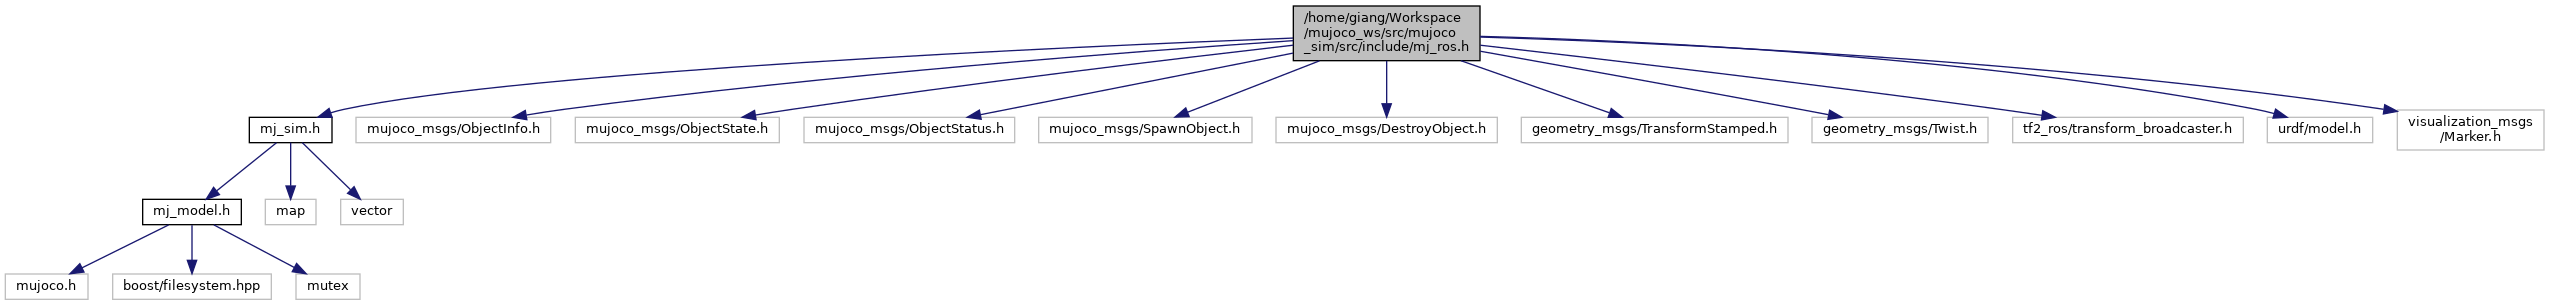
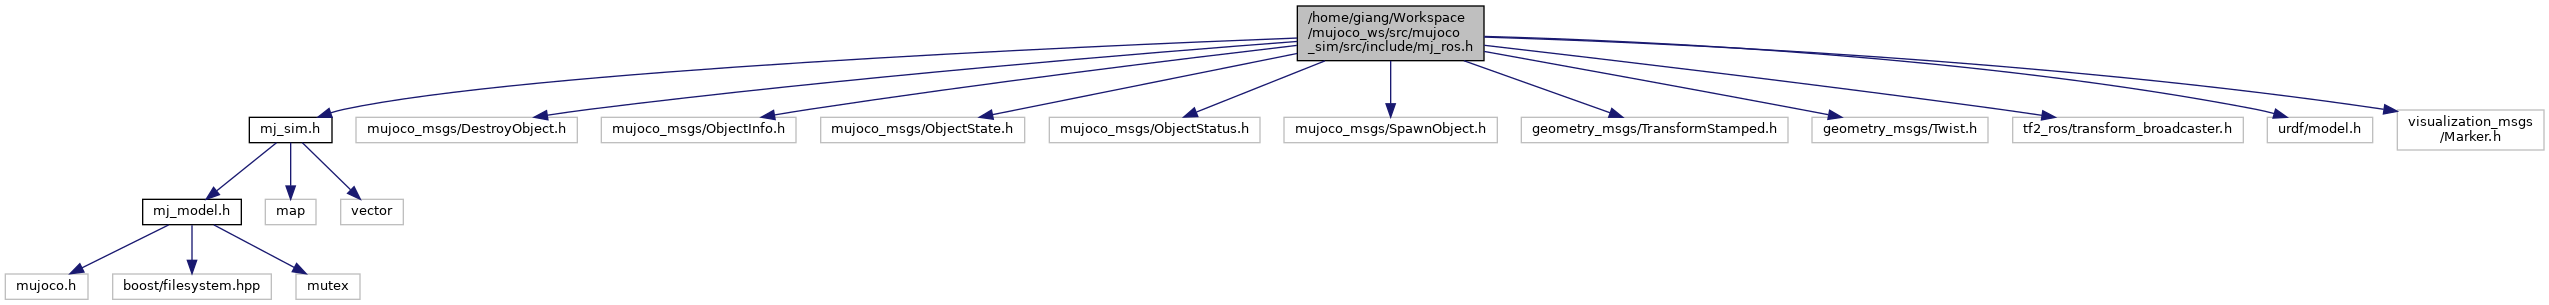
Add publish base transform

diff --git a/docs/html/mj__ros_8h_source.html b/docs/html/mj__ros_8h_source.html
@@ -93,11 +93,11 @@ $(function() {
 <div class="line"><a name="l00021"></a><span class="lineno">   21</span>&#160;<span class="preprocessor">#pragma once</span></div>
 <div class="line"><a name="l00022"></a><span class="lineno">   22</span>&#160; </div>
 <div class="line"><a name="l00023"></a><span class="lineno">   23</span>&#160;<span class="preprocessor">#include &quot;<a class="code" href="mj__sim_8h.html">mj_sim.h</a>&quot;</span></div>
-<div class="line"><a name="l00024"></a><span class="lineno">   24</span>&#160;<span class="preprocessor">#include &quot;mujoco_msgs/ObjectInfo.h&quot;</span></div>
-<div class="line"><a name="l00025"></a><span class="lineno">   25</span>&#160;<span class="preprocessor">#include &quot;mujoco_msgs/ObjectState.h&quot;</span></div>
-<div class="line"><a name="l00026"></a><span class="lineno">   26</span>&#160;<span class="preprocessor">#include &quot;mujoco_msgs/ObjectStatus.h&quot;</span></div>
-<div class="line"><a name="l00027"></a><span class="lineno">   27</span>&#160;<span class="preprocessor">#include &quot;mujoco_msgs/SpawnObject.h&quot;</span></div>
-<div class="line"><a name="l00028"></a><span class="lineno">   28</span>&#160;<span class="preprocessor">#include &quot;mujoco_msgs/DestroyObject.h&quot;</span></div>
+<div class="line"><a name="l00024"></a><span class="lineno">   24</span>&#160;<span class="preprocessor">#include &quot;mujoco_msgs/DestroyObject.h&quot;</span></div>
+<div class="line"><a name="l00025"></a><span class="lineno">   25</span>&#160;<span class="preprocessor">#include &quot;mujoco_msgs/ObjectInfo.h&quot;</span></div>
+<div class="line"><a name="l00026"></a><span class="lineno">   26</span>&#160;<span class="preprocessor">#include &quot;mujoco_msgs/ObjectState.h&quot;</span></div>
+<div class="line"><a name="l00027"></a><span class="lineno">   27</span>&#160;<span class="preprocessor">#include &quot;mujoco_msgs/ObjectStatus.h&quot;</span></div>
+<div class="line"><a name="l00028"></a><span class="lineno">   28</span>&#160;<span class="preprocessor">#include &quot;mujoco_msgs/SpawnObject.h&quot;</span></div>
 <div class="line"><a name="l00029"></a><span class="lineno">   29</span>&#160; </div>
 <div class="line"><a name="l00030"></a><span class="lineno">   30</span>&#160;<span class="preprocessor">#include &lt;geometry_msgs/TransformStamped.h&gt;</span></div>
 <div class="line"><a name="l00031"></a><span class="lineno">   31</span>&#160;<span class="preprocessor">#include &lt;geometry_msgs/Twist.h&gt;</span></div>
@@ -126,7 +126,7 @@ $(function() {
 <div class="line"><a name="l00083"></a><span class="lineno">   83</span>&#160; </div>
 <div class="line"><a name="l00090"></a><span class="lineno">   90</span>&#160;    <span class="keywordtype">void</span> publish_markers(<span class="keywordtype">int</span> body_idx, std::string object_name);</div>
 <div class="line"><a name="l00091"></a><span class="lineno">   91</span>&#160; </div>
-<div class="line"><a name="l00098"></a><span class="lineno">   98</span>&#160;    <span class="keywordtype">void</span> publish_tf(<span class="keywordtype">int</span> body_idx, std::string object_name);</div>
+<div class="line"><a name="l00098"></a><span class="lineno">   98</span>&#160;    <span class="keywordtype">void</span> set_transform(<span class="keywordtype">int</span> body_idx, std::string object_name);</div>
 <div class="line"><a name="l00099"></a><span class="lineno">   99</span>&#160; </div>
 <div class="line"><a name="l00100"></a><span class="lineno">  100</span>&#160;<span class="keyword">public</span>:</div>
 <div class="line"><a name="l00105"></a><span class="lineno"><a class="line" href="classMjRos.html#ac4fdfcf53d7e46c55046a43ba554e31b">  105</a></span>&#160;    <span class="keyword">static</span> ros::Time <a class="code" href="classMjRos.html#ac4fdfcf53d7e46c55046a43ba554e31b">ros_start</a>;</div>
@@ -140,29 +140,31 @@ $(function() {
 <div class="line"><a name="l00113"></a><span class="lineno">  113</span>&#160; </div>
 <div class="line"><a name="l00114"></a><span class="lineno">  114</span>&#160;    ros::ServiceServer destroy_objects_server;</div>
 <div class="line"><a name="l00115"></a><span class="lineno">  115</span>&#160; </div>
-<div class="line"><a name="l00116"></a><span class="lineno">  116</span>&#160;    visualization_msgs::Marker marker;</div>
+<div class="line"><a name="l00116"></a><span class="lineno">  116</span>&#160;    ros::Publisher vis_pub;</div>
 <div class="line"><a name="l00117"></a><span class="lineno">  117</span>&#160; </div>
-<div class="line"><a name="l00118"></a><span class="lineno">  118</span>&#160;    ros::Publisher vis_pub;</div>
+<div class="line"><a name="l00118"></a><span class="lineno">  118</span>&#160;    ros::Publisher base_pub;</div>
 <div class="line"><a name="l00119"></a><span class="lineno">  119</span>&#160; </div>
-<div class="line"><a name="l00120"></a><span class="lineno">  120</span>&#160;    geometry_msgs::TransformStamped transform;</div>
+<div class="line"><a name="l00120"></a><span class="lineno">  120</span>&#160;    tf2_ros::TransformBroadcaster br;</div>
 <div class="line"><a name="l00121"></a><span class="lineno">  121</span>&#160; </div>
-<div class="line"><a name="l00122"></a><span class="lineno">  122</span>&#160;    tf2_ros::TransformBroadcaster br;</div>
-<div class="line"><a name="l00123"></a><span class="lineno">  123</span>&#160;};</div>
-<div class="line"><a name="l00124"></a><span class="lineno">  124</span>&#160; </div>
-<div class="line"><a name="l00135"></a><span class="lineno"><a class="line" href="mj__ros_8h.html#a0c87fc0c5caf99e8363d04b3dc1265dc">  135</a></span>&#160;<span class="keywordtype">bool</span> <a class="code" href="mj__ros_8h.html#a0c87fc0c5caf99e8363d04b3dc1265dc">init_urdf</a>(urdf::Model &amp;urdf_model, <span class="keyword">const</span> ros::NodeHandle &amp;n)</div>
-<div class="line"><a name="l00136"></a><span class="lineno">  136</span>&#160;{</div>
-<div class="line"><a name="l00137"></a><span class="lineno">  137</span>&#160;    <span class="keywordflow">if</span> (n.hasParam(<span class="stringliteral">&quot;robot_description&quot;</span>))</div>
-<div class="line"><a name="l00138"></a><span class="lineno">  138</span>&#160;    {</div>
-<div class="line"><a name="l00139"></a><span class="lineno">  139</span>&#160;        <span class="keywordflow">return</span> urdf_model.initParamWithNodeHandle(<span class="stringliteral">&quot;robot_description&quot;</span>, n);</div>
-<div class="line"><a name="l00140"></a><span class="lineno">  140</span>&#160;    }</div>
-<div class="line"><a name="l00141"></a><span class="lineno">  141</span>&#160;    <span class="keywordflow">else</span></div>
-<div class="line"><a name="l00142"></a><span class="lineno">  142</span>&#160;    {</div>
-<div class="line"><a name="l00143"></a><span class="lineno">  143</span>&#160;        ROS_WARN(<span class="stringliteral">&quot;robot_description not found&quot;</span>);</div>
-<div class="line"><a name="l00144"></a><span class="lineno">  144</span>&#160;        <span class="keywordflow">return</span> <span class="keyword">false</span>;</div>
-<div class="line"><a name="l00145"></a><span class="lineno">  145</span>&#160;    }</div>
-<div class="line"><a name="l00146"></a><span class="lineno">  146</span>&#160;}</div>
+<div class="line"><a name="l00122"></a><span class="lineno">  122</span>&#160;    visualization_msgs::Marker marker;</div>
+<div class="line"><a name="l00123"></a><span class="lineno">  123</span>&#160; </div>
+<div class="line"><a name="l00124"></a><span class="lineno">  124</span>&#160;    geometry_msgs::TransformStamped transform;</div>
+<div class="line"><a name="l00125"></a><span class="lineno">  125</span>&#160;};</div>
+<div class="line"><a name="l00126"></a><span class="lineno">  126</span>&#160; </div>
+<div class="line"><a name="l00137"></a><span class="lineno"><a class="line" href="mj__ros_8h.html#a0c87fc0c5caf99e8363d04b3dc1265dc">  137</a></span>&#160;<span class="keywordtype">bool</span> <a class="code" href="mj__ros_8h.html#a0c87fc0c5caf99e8363d04b3dc1265dc">init_urdf</a>(urdf::Model &amp;urdf_model, <span class="keyword">const</span> ros::NodeHandle &amp;n)</div>
+<div class="line"><a name="l00138"></a><span class="lineno">  138</span>&#160;{</div>
+<div class="line"><a name="l00139"></a><span class="lineno">  139</span>&#160;    <span class="keywordflow">if</span> (n.hasParam(<span class="stringliteral">&quot;robot_description&quot;</span>))</div>
+<div class="line"><a name="l00140"></a><span class="lineno">  140</span>&#160;    {</div>
+<div class="line"><a name="l00141"></a><span class="lineno">  141</span>&#160;        <span class="keywordflow">return</span> urdf_model.initParamWithNodeHandle(<span class="stringliteral">&quot;robot_description&quot;</span>, n);</div>
+<div class="line"><a name="l00142"></a><span class="lineno">  142</span>&#160;    }</div>
+<div class="line"><a name="l00143"></a><span class="lineno">  143</span>&#160;    <span class="keywordflow">else</span></div>
+<div class="line"><a name="l00144"></a><span class="lineno">  144</span>&#160;    {</div>
+<div class="line"><a name="l00145"></a><span class="lineno">  145</span>&#160;        ROS_WARN(<span class="stringliteral">&quot;robot_description not found&quot;</span>);</div>
+<div class="line"><a name="l00146"></a><span class="lineno">  146</span>&#160;        <span class="keywordflow">return</span> <span class="keyword">false</span>;</div>
+<div class="line"><a name="l00147"></a><span class="lineno">  147</span>&#160;    }</div>
+<div class="line"><a name="l00148"></a><span class="lineno">  148</span>&#160;}</div>
 </div><!-- fragment --></div><!-- contents -->
-<div class="ttc" id="amj__ros_8h_html_a0c87fc0c5caf99e8363d04b3dc1265dc"><div class="ttname"><a href="mj__ros_8h.html#a0c87fc0c5caf99e8363d04b3dc1265dc">init_urdf</a></div><div class="ttdeci">bool init_urdf(urdf::Model &amp;urdf_model, const ros::NodeHandle &amp;n)</div><div class="ttdoc">This function urdf::Model::initParamWithNodeHandle should be inside the implementation file,...</div><div class="ttdef"><b>Definition:</b> mj_ros.h:135</div></div>
+<div class="ttc" id="amj__ros_8h_html_a0c87fc0c5caf99e8363d04b3dc1265dc"><div class="ttname"><a href="mj__ros_8h.html#a0c87fc0c5caf99e8363d04b3dc1265dc">init_urdf</a></div><div class="ttdeci">bool init_urdf(urdf::Model &amp;urdf_model, const ros::NodeHandle &amp;n)</div><div class="ttdoc">This function urdf::Model::initParamWithNodeHandle should be inside the implementation file,...</div><div class="ttdef"><b>Definition:</b> mj_ros.h:137</div></div>
 <div class="ttc" id="amj__sim_8h_html"><div class="ttname"><a href="mj__sim_8h.html">mj_sim.h</a></div></div>
 <div class="ttc" id="aclassMjRos_html_acd3054fd4ee8a09961d76cf26e297f6c"><div class="ttname"><a href="classMjRos.html#acd3054fd4ee8a09961d76cf26e297f6c">MjRos::update</a></div><div class="ttdeci">void update(double frequency)</div><div class="ttdoc">Update publishers.</div><div class="ttdef"><b>Definition:</b> mj_ros.cpp:328</div></div>
 <div class="ttc" id="aclassMjRos_html_a6ac18666bf03ec3810874f87a5533091"><div class="ttname"><a href="classMjRos.html#a6ac18666bf03ec3810874f87a5533091">MjRos::~MjRos</a></div><div class="ttdeci">~MjRos()</div><div class="ttdef"><b>Definition:</b> mj_ros.cpp:31</div></div>

diff --git a/docs/html/mj__ros_8h.html b/docs/html/mj__ros_8h.html
@@ -74,11 +74,11 @@ $(function() {
 </div><!--header-->
 <div class="contents">
 <div class="textblock"><code>#include &quot;<a class="el" href="mj__sim_8h_source.html">mj_sim.h</a>&quot;</code><br />
+<code>#include &quot;mujoco_msgs/DestroyObject.h&quot;</code><br />
 <code>#include &quot;mujoco_msgs/ObjectInfo.h&quot;</code><br />
 <code>#include &quot;mujoco_msgs/ObjectState.h&quot;</code><br />
 <code>#include &quot;mujoco_msgs/ObjectStatus.h&quot;</code><br />
 <code>#include &quot;mujoco_msgs/SpawnObject.h&quot;</code><br />
-<code>#include &quot;mujoco_msgs/DestroyObject.h&quot;</code><br />
 <code>#include &lt;geometry_msgs/TransformStamped.h&gt;</code><br />
 <code>#include &lt;geometry_msgs/Twist.h&gt;</code><br />
 <code>#include &lt;tf2_ros/transform_broadcaster.h&gt;</code><br />
@@ -89,13 +89,13 @@ Include dependency graph for mj_ros.h:</div>
 <div class="dyncontent">
 <div class="center"><img src="mj__ros_8h__incl.png" border="0" usemap="#_2home_2giang_2Workspace_2mujoco__ws_2src_2mujoco__sim_2src_2include_2mj__ros_8h" alt=""/></div>
 <map name="_2home_2giang_2Workspace_2mujoco__ws_2src_2mujoco__sim_2src_2include_2mj__ros_8h" id="_2home_2giang_2Workspace_2mujoco__ws_2src_2mujoco__sim_2src_2include_2mj__ros_8h">
-<area shape="rect" title=" " alt="" coords="1293,5,1480,61"/>
+<area shape="rect" title=" " alt="" coords="1297,5,1484,61"/>
 <area shape="rect" href="mj__sim_8h.html" title=" " alt="" coords="249,117,332,143"/>
-<area shape="rect" title=" " alt="" coords="356,117,551,143"/>
-<area shape="rect" title=" " alt="" coords="575,117,779,143"/>
-<area shape="rect" title=" " alt="" coords="804,117,1015,143"/>
-<area shape="rect" title=" " alt="" coords="1039,117,1252,143"/>
-<area shape="rect" title=" " alt="" coords="1276,117,1497,143"/>
+<area shape="rect" title=" " alt="" coords="356,117,577,143"/>
+<area shape="rect" title=" " alt="" coords="601,117,796,143"/>
+<area shape="rect" title=" " alt="" coords="821,117,1025,143"/>
+<area shape="rect" title=" " alt="" coords="1049,117,1260,143"/>
+<area shape="rect" title=" " alt="" coords="1284,117,1497,143"/>
 <area shape="rect" title=" " alt="" coords="1521,117,1788,143"/>
 <area shape="rect" title=" " alt="" coords="1812,117,1988,143"/>
 <area shape="rect" title=" " alt="" coords="2013,117,2243,143"/>

diff --git a/docs/html/mj__ros_8cpp.html b/docs/html/mj__ros_8cpp.html
@@ -81,17 +81,17 @@ Include dependency graph for mj_ros.cpp:</div>
 <div class="dyncontent">
 <div class="center"><img src="mj__ros_8cpp__incl.png" border="0" usemap="#_2home_2giang_2Workspace_2mujoco__ws_2src_2mujoco__sim_2src_2src_2mj__ros_8cpp" alt=""/></div>
 <map name="_2home_2giang_2Workspace_2mujoco__ws_2src_2mujoco__sim_2src_2src_2mj__ros_8cpp" id="_2home_2giang_2Workspace_2mujoco__ws_2src_2mujoco__sim_2src_2src_2mj__ros_8cpp">
-<area shape="rect" title=" " alt="" coords="1465,5,1644,61"/>
-<area shape="rect" href="mj__ros_8h.html" title=" " alt="" coords="1347,109,1426,136"/>
-<area shape="rect" title=" " alt="" coords="1451,109,1536,136"/>
-<area shape="rect" title=" " alt="" coords="1561,109,1674,136"/>
-<area shape="rect" title=" " alt="" coords="1698,109,1790,136"/>
+<area shape="rect" title=" " alt="" coords="1469,5,1648,61"/>
+<area shape="rect" href="mj__ros_8h.html" title=" " alt="" coords="1351,109,1430,136"/>
+<area shape="rect" title=" " alt="" coords="1455,109,1540,136"/>
+<area shape="rect" title=" " alt="" coords="1565,109,1678,136"/>
+<area shape="rect" title=" " alt="" coords="1702,109,1794,136"/>
 <area shape="rect" href="mj__sim_8h.html" title=" " alt="" coords="249,191,332,218"/>
-<area shape="rect" title=" " alt="" coords="356,191,551,218"/>
-<area shape="rect" title=" " alt="" coords="575,191,779,218"/>
-<area shape="rect" title=" " alt="" coords="804,191,1015,218"/>
-<area shape="rect" title=" " alt="" coords="1039,191,1252,218"/>
-<area shape="rect" title=" " alt="" coords="1276,191,1497,218"/>
+<area shape="rect" title=" " alt="" coords="356,191,577,218"/>
+<area shape="rect" title=" " alt="" coords="601,191,796,218"/>
+<area shape="rect" title=" " alt="" coords="821,191,1025,218"/>
+<area shape="rect" title=" " alt="" coords="1049,191,1260,218"/>
+<area shape="rect" title=" " alt="" coords="1284,191,1497,218"/>
 <area shape="rect" title=" " alt="" coords="1521,191,1788,218"/>
 <area shape="rect" title=" " alt="" coords="1812,191,1988,218"/>
 <area shape="rect" title=" " alt="" coords="2013,191,2243,218"/>

diff --git a/docs/html/mujoco__sim__headless_8cpp.html b/docs/html/mujoco__sim__headless_8cpp.html
@@ -93,11 +93,11 @@ Include dependency graph for mujoco_sim_headless.cpp:</div>
 <area shape="rect" title=" " alt="" coords="5,273,209,315"/>
 <area shape="rect" title=" " alt="" coords="233,273,405,315"/>
 <area shape="rect" title=" " alt="" coords="429,273,577,315"/>
-<area shape="rect" title=" " alt="" coords="1755,281,1950,307"/>
-<area shape="rect" title=" " alt="" coords="1975,281,2179,307"/>
-<area shape="rect" title=" " alt="" coords="2203,281,2414,307"/>
-<area shape="rect" title=" " alt="" coords="2438,281,2651,307"/>
-<area shape="rect" title=" " alt="" coords="2675,281,2897,307"/>
+<area shape="rect" title=" " alt="" coords="1755,281,1977,307"/>
+<area shape="rect" title=" " alt="" coords="2001,281,2195,307"/>
+<area shape="rect" title=" " alt="" coords="2220,281,2424,307"/>
+<area shape="rect" title=" " alt="" coords="2449,281,2659,307"/>
+<area shape="rect" title=" " alt="" coords="2683,281,2897,307"/>
 <area shape="rect" title=" " alt="" coords="709,281,975,307"/>
 <area shape="rect" title=" " alt="" coords="999,281,1175,307"/>
 <area shape="rect" title=" " alt="" coords="1200,281,1431,307"/>

diff --git a/docs/html/mujoco__sim_8cpp.html b/docs/html/mujoco__sim_8cpp.html
@@ -95,11 +95,11 @@ Include dependency graph for mujoco_sim.cpp:</div>
 <area shape="rect" title=" " alt="" coords="5,273,209,315"/>
 <area shape="rect" title=" " alt="" coords="233,273,405,315"/>
 <area shape="rect" title=" " alt="" coords="429,273,577,315"/>
-<area shape="rect" title=" " alt="" coords="1755,281,1950,307"/>
-<area shape="rect" title=" " alt="" coords="1975,281,2179,307"/>
-<area shape="rect" title=" " alt="" coords="2203,281,2414,307"/>
-<area shape="rect" title=" " alt="" coords="2438,281,2651,307"/>
-<area shape="rect" title=" " alt="" coords="2675,281,2897,307"/>
+<area shape="rect" title=" " alt="" coords="1755,281,1977,307"/>
+<area shape="rect" title=" " alt="" coords="2001,281,2195,307"/>
+<area shape="rect" title=" " alt="" coords="2220,281,2424,307"/>
+<area shape="rect" title=" " alt="" coords="2449,281,2659,307"/>
+<area shape="rect" title=" " alt="" coords="2683,281,2897,307"/>
 <area shape="rect" title=" " alt="" coords="709,281,975,307"/>
 <area shape="rect" title=" " alt="" coords="999,281,1175,307"/>
 <area shape="rect" title=" " alt="" coords="1200,281,1431,307"/>

diff --git a/docs/html/mj__main_8cpp.html b/docs/html/mj__main_8cpp.html
@@ -99,11 +99,11 @@ Include dependency graph for mj_main.cpp:</div>
 <area shape="rect" title=" " alt="" coords="5,199,209,240"/>
 <area shape="rect" title=" " alt="" coords="233,199,405,240"/>
 <area shape="rect" title=" " alt="" coords="429,199,577,240"/>
-<area shape="rect" title=" " alt="" coords="1755,206,1950,233"/>
-<area shape="rect" title=" " alt="" coords="1975,206,2179,233"/>
-<area shape="rect" title=" " alt="" coords="2203,206,2414,233"/>
-<area shape="rect" title=" " alt="" coords="2438,206,2651,233"/>
-<area shape="rect" title=" " alt="" coords="2675,206,2897,233"/>
+<area shape="rect" title=" " alt="" coords="1755,206,1977,233"/>
+<area shape="rect" title=" " alt="" coords="2001,206,2195,233"/>
+<area shape="rect" title=" " alt="" coords="2220,206,2424,233"/>
+<area shape="rect" title=" " alt="" coords="2449,206,2659,233"/>
+<area shape="rect" title=" " alt="" coords="2683,206,2897,233"/>
 <area shape="rect" title=" " alt="" coords="709,206,975,233"/>
 <area shape="rect" title=" " alt="" coords="999,206,1175,233"/>
 <area shape="rect" title=" " alt="" coords="1200,206,1431,233"/>

diff --git a/src/src/mj_ros.cpp b/src/src/mj_ros.cpp
@@ -329,13 +329,24 @@ void MjRos::update(double frequency = 60)
 {
     ros::Rate loop_rate(frequency); // Publish with 60 Hz
     vis_pub = n.advertise<visualization_msgs::Marker>("/mujoco/visualization_marker", 0);
+    if (use_odom_joints)
+    {
+        base_pub = n.advertise<geometry_msgs::TransformStamped>(root_name, 0);
+    }
+    
     marker.header.frame_id = "map";
     marker.action = visualization_msgs::Marker::MODIFY;
-    marker.header.stamp = ros::Time();
 
     transform.header.frame_id = "map";
     while (ros::ok())
     {
+        // Set header
+        marker.header.stamp = ros::Time::now();
+        marker.header.seq += 1;
+        transform.header.stamp = ros::Time::now();
+        transform.header.seq += 1;
+
+        // Publish tf and marker of objects
         std::string object_name;
         for (int body_id = 1; body_id < m->nbody; body_id++)
         {
@@ -346,31 +357,26 @@ void MjRos::update(double frequency = 60)
                 {
                     continue;
                 }
-                // int dof_num = m->body_dofnum[body_id];
-                // if (dof_num != 6)
-                // {
-                //     ROS_WARN("Object %s hast %d DoF, will be ignored...", object_name, dof_num);
-                // }
 
-                // int dof_adr = m->jnt_dofadr[m->body_jntadr[body_id]];
-                // ROS_WARN("destroy: qvel: [%f %f %f], [%f, %f, %f]", d->qvel[dof_adr], d->qvel[dof_adr+1], d->qvel[dof_adr+2], d->qvel[dof_adr+3], d->qvel[dof_adr+4], d->qvel[dof_adr+5]);
-
-                publish_tf(body_id, object_name);
+                set_transform(body_id, object_name);
+                br.sendTransform(transform);
 
                 publish_markers(body_id, object_name);
             }
         }
-
+        
+        // Publish tf of root
         std::string base_name = "world";
         if (use_odom_joints)
         {
             base_name = model_path.stem().string();
         }
-
         int root_body_id = mj_name2id(m, mjtObj::mjOBJ_BODY, base_name.c_str());
         if (root_body_id != -1)
         {
-            publish_tf(root_body_id, root_name);
+            set_transform(root_body_id, root_name);
+            br.sendTransform(transform);
+            base_pub.publish(transform);
         }
 
         ros::spinOnce();
@@ -435,10 +441,8 @@ void MjRos::publish_markers(int body_id, std::string object_name)
     }
 }
 
-void MjRos::publish_tf(int body_id, std::string object_name)
+void MjRos::set_transform(int body_id, std::string object_name)
 {
-    transform.header.stamp = ros::Time::now();
-
     transform.child_frame_id = object_name;
     transform.transform.translation.x = d->xpos[3 * body_id];
     transform.transform.translation.y = d->xpos[3 * body_id + 1];
@@ -447,5 +451,4 @@ void MjRos::publish_tf(int body_id, std::string object_name)
     transform.transform.rotation.y = d->xquat[4 * body_id + 2];
     transform.transform.rotation.z = d->xquat[4 * body_id + 3];
     transform.transform.rotation.w = d->xquat[4 * body_id];
-    br.sendTransform(transform);
 }

diff --git a/src/include/mj_ros.h b/src/include/mj_ros.h
@@ -21,11 +21,11 @@
 #pragma once
 
 #include "mj_sim.h"
+#include "mujoco_msgs/DestroyObject.h"
 #include "mujoco_msgs/ObjectInfo.h"
 #include "mujoco_msgs/ObjectState.h"
 #include "mujoco_msgs/ObjectStatus.h"
 #include "mujoco_msgs/SpawnObject.h"
-#include "mujoco_msgs/DestroyObject.h"
 
 #include <geometry_msgs/TransformStamped.h>
 #include <geometry_msgs/Twist.h>
@@ -56,7 +56,7 @@ public:
 private:
     /**
      * @brief Create new object from ROS
-     * 
+     *
      * @param req New object parameters
      * @param res Success or not
      * @return true Success
@@ -66,7 +66,7 @@ private:
 
     /**
      * @brief Destroy object from ROS
-     * 
+     *
      * @param req Array of object names
      * @param res Success or not
      * @return true Success
@@ -90,12 +90,12 @@ private:
     void publish_markers(int body_idx, std::string object_name);
 
     /**
-     * @brief Publish tf of all objects
+     * @brief Set transform of an object
      *
      * @param body_idx Body index of the object
      * @param object_name Name of the object (object_name = mj_id2name(m, mjtObj::mjOBJ_BODY, body_idx))
      */
-    void publish_tf(int body_idx, std::string object_name);
+    void set_transform(int body_idx, std::string object_name);
 
 public:
     /**
@@ -113,13 +113,15 @@ private:
 
     ros::ServiceServer destroy_objects_server;
 
-    visualization_msgs::Marker marker;
-
     ros::Publisher vis_pub;
 
-    geometry_msgs::TransformStamped transform;
+    ros::Publisher base_pub;
 
     tf2_ros::TransformBroadcaster br;
+
+    visualization_msgs::Marker marker;
+
+    geometry_msgs::TransformStamped transform;
 };
 
 /**
